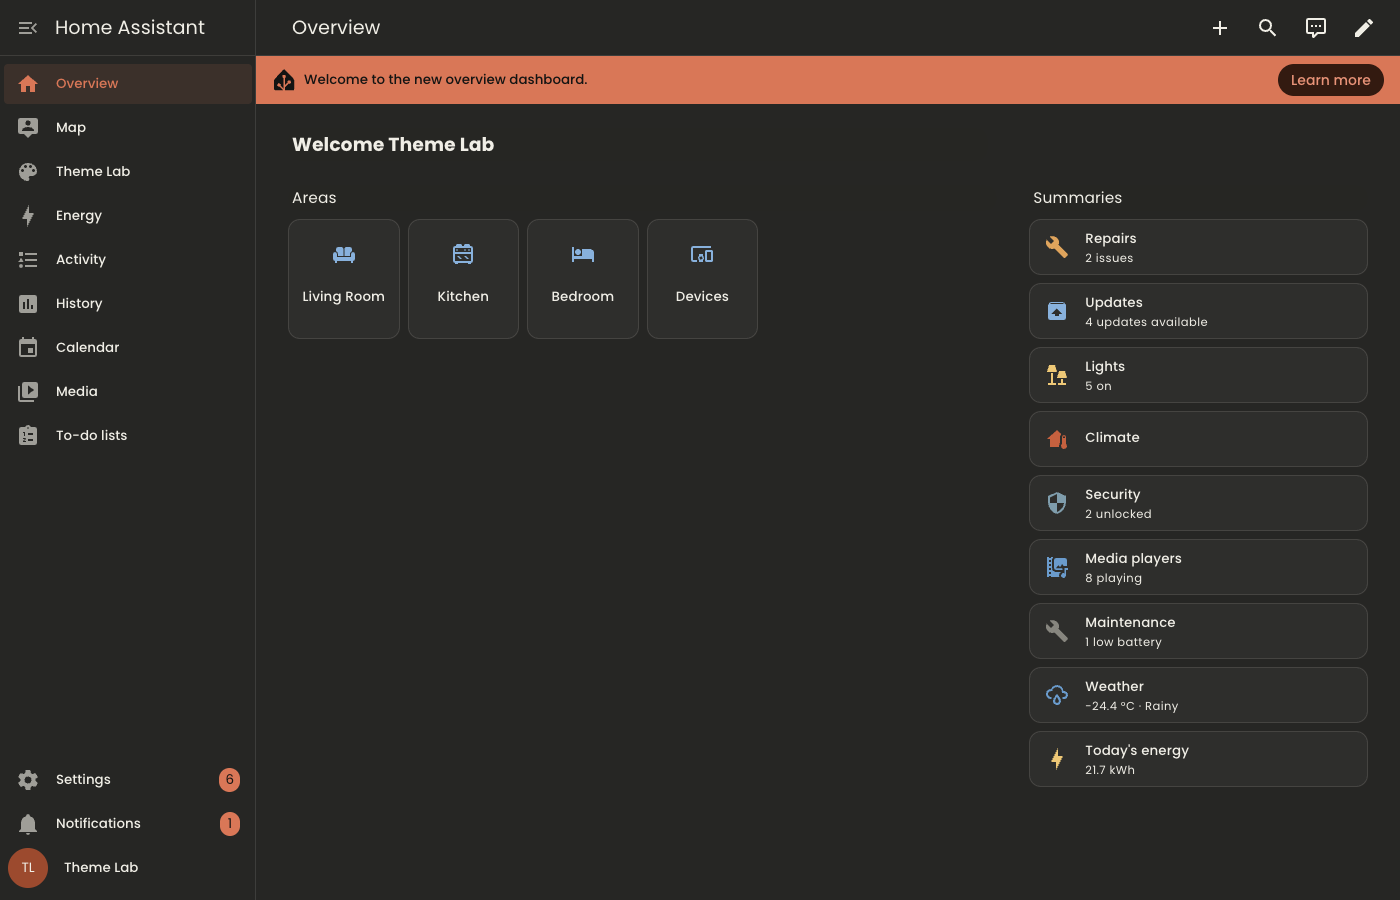
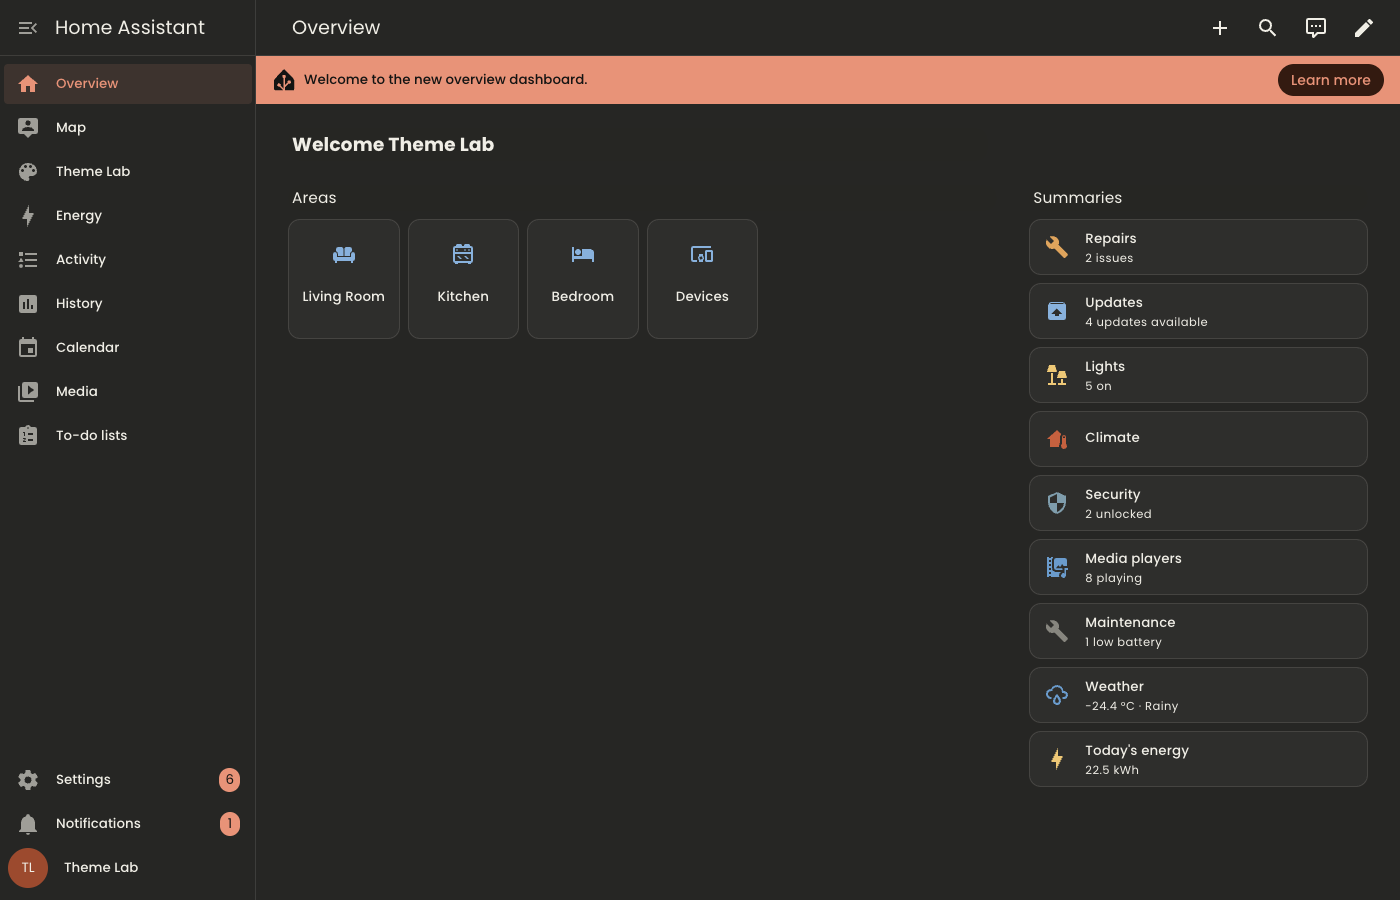
feat(theme): deepen the light primary and lighten the dark primary for readable links
Links are drawn in the primary color, which kept Anthropic's links under 4.5:1 on cards.
Light mode now uses a deeper clay (#9c4a2e) with white text and dark mode a lighter clay
(#e89378) with dark text: links reach 6.1:1 and 5.6:1, loud buttons 6.1:1 and 7.8:1. Plain
text buttons and card links follow the same deep clay in light mode.

diff --git a/docs/creating-a-theme.md b/docs/creating-a-theme.md
@@ -214,9 +214,12 @@ reads. The frontend's default theme declares several tokens nothing reads —
 `ha-color-text-link`, `ha-color-text-disabled`, `darker-primary-color`, `outline-hover-color` —
 so there is no `link` role: links are drawn in `primary-color`, the `primary` role. Since
 `primary` is also the brand fill of buttons, badges and switches, the builder never moves it and
-validation holds it to the 3:1 of a graphical part; check its link contrast by eye. Anthropic's
-clay reaches 3.85–4.05:1 in light mode (stock 3.12–3.26:1) and 4.24–4.86:1 in dark mode (stock
-5.0–5.8:1), where links on cards are therefore slightly fainter than stock.
+validation holds it to the 3:1 of a graphical part; check its link contrast by eye. Anthropic
+picks its primary for links as much as for fills: a deeper clay (`primary.30`, `#9c4a2e`) with
+white text in light mode and a lighter clay (`primary.60`, `#e89378`) with dark text in dark
+mode, which puts links at 6.1:1 and 5.6:1 on cards and loud buttons at 6.1:1 and 7.8:1. The
+theme also points `ha-color-on-primary-normal` (plain text buttons such as Lock/Unlock and card
+links) at the same deep clay in light mode, so every primary-colored text reads alike.
 
 Form fields (`ha-color-form-background`, `-hover`, `-disabled`), the quiet and normal neutral
 fills and `ha-color-surface-low` point at fixed neutral steps that suit the frontend's own
